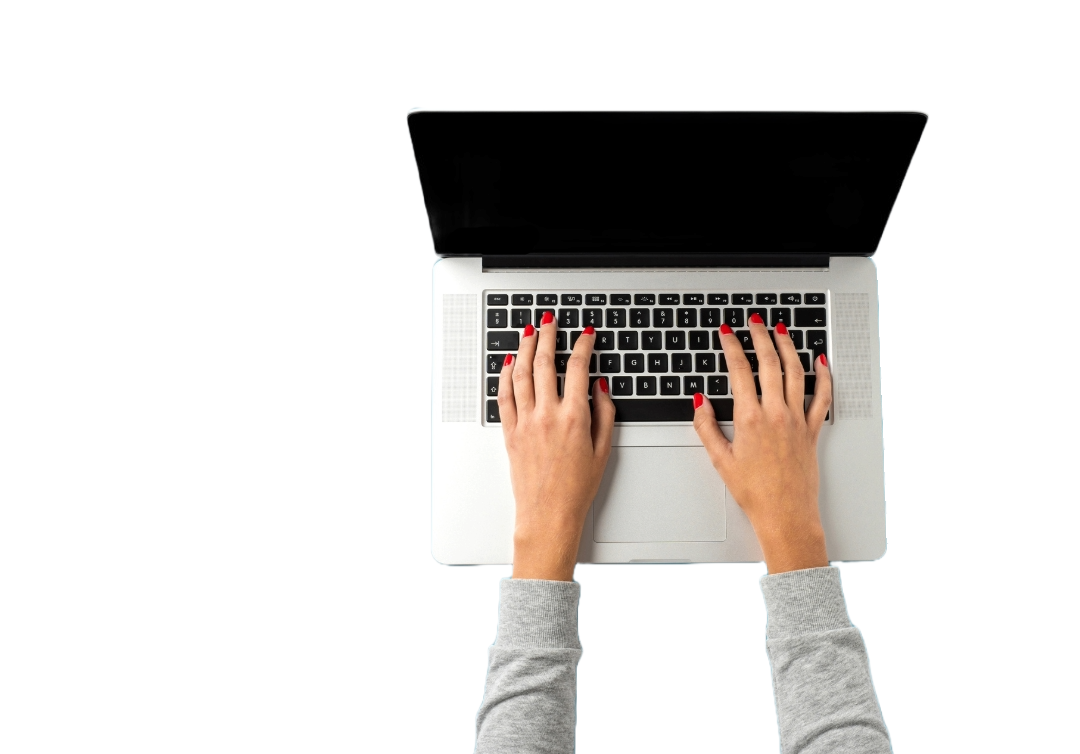
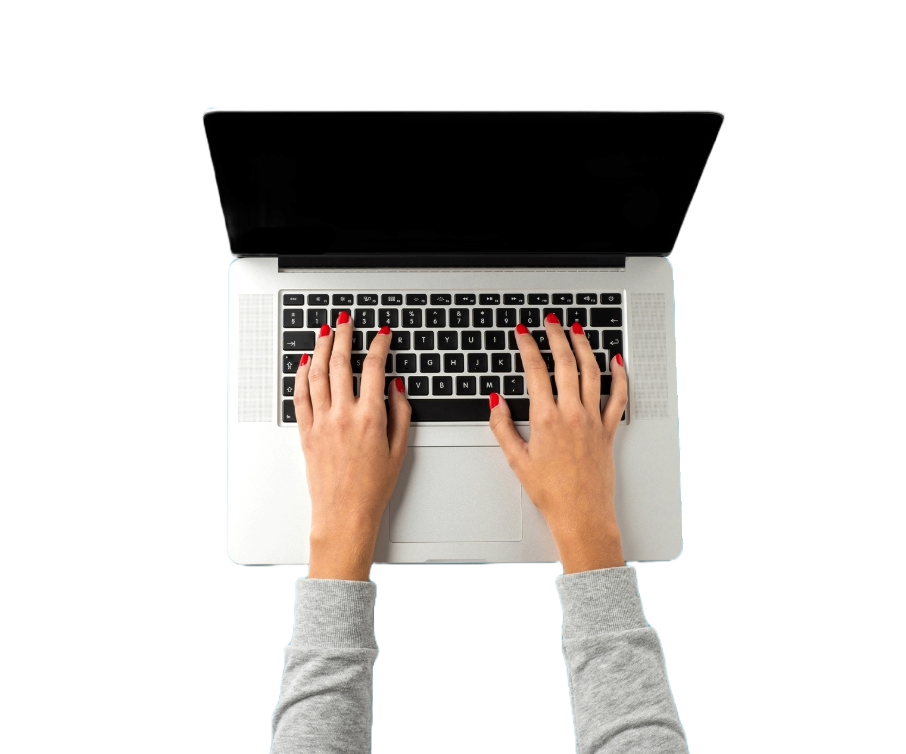
トップページサーチフォーム

diff --git a/client/app/components/search/KeywordSearch.tsx b/client/app/components/search/KeywordSearch.tsx
@@ -1,0 +1,74 @@
+const KeywordSearch = () => {
+  return (
+    <section className="px-8 pb-10">
+      <form className="flex items-center gap-4 h-12">
+        {/* キーワード入力 */}
+        <input
+          type="text"
+          placeholder="スクール名・資格などで検索"
+          className="flex-1 p-3 border border-gray-300 rounded-lg shadow-sm focus:outline-none focus:ring-2 h-full"
+        />
+
+        {/* 都道府県選択 */}
+        <select className="text-gray-500 p-3 border border-gray-300 rounded-lg shadow-sm focus:outline-none focus:ring-2 h-full">
+          <option value="">都道府県を選択</option>
+          <option value="remote">リモート</option>
+          <option value="hokkaido">北海道</option>
+          <option value="aomori">青森県</option>
+          <option value="iwate">岩手県</option>
+          <option value="miyagi">宮城県</option>
+          <option value="akita">秋田県</option>
+          <option value="yamagata">山形県</option>
+          <option value="fukushima">福島県</option>
+          <option value="ibaraki">茨城県</option>
+          <option value="tochigi">栃木県</option>
+          <option value="gunma">群馬県</option>
+          <option value="saitama">埼玉県</option>
+          <option value="chiba">千葉県</option>
+          <option value="tokyo">東京都</option>
+          <option value="kanagawa">神奈川県</option>
+          <option value="niigata">新潟県</option>
+          <option value="toyama">富山県</option>
+          <option value="ishikawa">石川県</option>
+          <option value="fukui">福井県</option>
+          <option value="yamanashi">山梨県</option>
+          <option value="nagano">長野県</option>
+          <option value="gifu">岐阜県</option>
+          <option value="shizuoka">静岡県</option>
+          <option value="aichi">愛知県</option>
+          <option value="mie">三重県</option>
+          <option value="shiga">滋賀県</option>
+          <option value="kyoto">京都府</option>
+          <option value="osaka">大阪府</option>
+          <option value="hyogo">兵庫県</option>
+          <option value="nara">奈良県</option>
+          <option value="wakayama">和歌山県</option>
+          <option value="tottori">鳥取県</option>
+          <option value="shimane">島根県</option>
+          <option value="okayama">岡山県</option>
+          <option value="hiroshima">広島県</option>
+          <option value="yamaguchi">山口県</option>
+          <option value="tokushima">徳島県</option>
+          <option value="kagawa">香川県</option>
+          <option value="ehime">愛媛県</option>
+          <option value="kochi">高知県</option>
+          <option value="fukuoka">福岡県</option>
+          <option value="saga">佐賀県</option>
+          <option value="nagasaki">長崎県</option>
+          <option value="kumamoto">熊本県</option>
+          <option value="oita">大分県</option>
+          <option value="miyazaki">宮崎県</option>
+          <option value="kagoshima">鹿児島県</option>
+          <option value="okinawa">沖縄県</option>
+        </select>
+
+        {/* 検索ボタン */}
+        <button className="p-3 bg-cyan-600/80 text-white rounded-lg shadow-sm hover:bg-cyan-700 transition ">
+          検索
+        </button>
+      </form>
+    </section>
+  );
+};
+
+export default KeywordSearch;

diff --git a/client/app/components/search/DetailSearch.tsx b/client/app/components/search/DetailSearch.tsx
@@ -1,43 +1,43 @@
-import { Briefcase, Code, Video, BarChart } from "lucide-react";
+import { Banknote, UserCog, Laptop, Clock } from "lucide-react";
 
-const CareerSearch = () => {
+const DetailSearch = () => {
   return (
     <section className="w-full max-w-screen-lg mx-auto text-center py-8 px-8">
       <h2 className="text-xl font-semibold text-gray-700 mb-5">
-        「なりたい」から探す
+        「こだわり」から探す
       </h2>
 
       {/* ボタンリスト */}
       <div className="grid grid-cols-2 md:grid-cols-2 gap-4">
-        {/* WEBデザイナー */}
-        <button className="flex flex-col items-center justify-center p-4 bg-white border border-gray-300 rounded-lg shadow-sm hover:bg-gray-100 transition">
-          <Briefcase className="w-7 h-7 text-gray-700" />
+        {/* 給付金対象コースあり */}
+        <button className="flex flex-col items-center justify-center p-4 bg-white border border-gray-300 rounded-lg shadow-sm hover:bg-gray-100 transition ">
+          <Banknote className="w-7 h-7 text-gray-700" />
           <span className="mt-2 text-gray-700 text-sm font-semibold">
-            WEBデザイナー
+            給付金対象あり
           </span>
         </button>
 
-        {/* ソフトウェアエンジニア */}
+        {/* フリーランスを目指せる */}
         <button className="flex flex-col items-center justify-center p-4 bg-white border border-gray-300 rounded-lg shadow-sm hover:bg-gray-100 transition">
-          <Code className="w-7 h-7 text-gray-700" />
+          <UserCog className="w-7 h-7 text-gray-700" />
           <span className="mt-2 text-gray-700 text-sm font-semibold">
-            エンジニア
+            フリーを目指せる
           </span>
         </button>
 
-        {/* 動画クリエイター */}
+        {/* リモート受講可能 */}
         <button className="flex flex-col items-center justify-center p-4 bg-white border border-gray-300 rounded-lg shadow-sm hover:bg-gray-100 transition">
-          <Video className="w-7 h-7 text-gray-700" />
+          <Laptop className="w-7 h-7 text-gray-700" />
           <span className="mt-2 text-gray-700 text-sm font-semibold">
-            動画クリエイター
+            リモート受講可能
           </span>
         </button>
 
-        {/* WEBマーケター */}
+        {/* 働きながら学べる */}
         <button className="flex flex-col items-center justify-center p-4 bg-white border border-gray-300 rounded-lg shadow-sm hover:bg-gray-100 transition">
-          <BarChart className="w-7 h-7 text-gray-700" />
+          <Clock className="w-7 h-7 text-gray-700" />
           <span className="mt-2 text-gray-700 text-sm font-semibold">
-            WEBマーケター
+            働きながら学べる
           </span>
         </button>
       </div>
@@ -46,4 +46,4 @@ const CareerSearch = () => {
   );
 };
 
-export default CareerSearch;
+export default DetailSearch;

diff --git a/client/app/components/layout/HeroSection.tsx b/client/app/components/layout/HeroSection.tsx
@@ -4,24 +4,26 @@ const HeroSection = () => {
   return (
     <section className="relative w-full h-[350px] bg-gray-100 flex items-center px-16">
       {/* 背景画像 */}
-      <div
-        className="absolute inset-0 bg-cover bg-center opacity-80"
-        style={{
-          backgroundImage: "url('/pc.png')",
-          backgroundSize: "contain",
-          backgroundRepeat: "no-repeat",
-          backgroundPosition: "70% center",
-        }}
-      ></div>
+      <div className="absolute inset-0 flex justify-end max-w-5xl w-full mx-auto">
+        <div
+          className="w-1/2 bg-cover bg-center opacity-80"
+          style={{
+            backgroundImage: "url('/pc.png')",
+            backgroundSize: "contain",
+            backgroundRepeat: "no-repeat",
+            backgroundPosition: "center center",
+          }}
+        ></div>
+      </div>
 
       {/* キャッチコピー */}
-      <div className="relative max-w-4xl w-full mx-auto text-left">
-        <h1 className="text-4xl font-semibold leading-snug tracking-wide text-gray-800">
+      <div className="relative max-w-4xl w-full mx-auto text-lef pl-3">
+        <h1 className="text-4xl font-semibold leading-snug tracking-wider text-gray-800 ">
           私らしい働き方叶える、
           <br />
           ITスクールのリアルな口コミ
         </h1>
-        <p className="text-sm mt-4 text-gray-500">
+        <p className="text-sm mt-4 text-gray-500 tracking-wide">
           実際の受講生の声をもとに、最適なスクール選びをサポートします。
         </p>
       </div>

diff --git a/client/app/components/search/SearchForm.tsx b/client/app/components/search/SearchForm.tsx
@@ -1,13 +1,14 @@
-import CareerSearch from "@/components/search/CareerSearch";
+import KeywordSearch from "./KeywordSearch";
 
 const SearchForm = ({ children }: { children: React.ReactNode }) => {
   return (
     <section className="w-full max-w-4xl mx-auto text-center py-12">
-      <div className="bg-whites border border-gray-300 rounded-lg shadow-lg backdrop-blur-sm overflow-hidden">
-        <div className="bg-cyan-600/80 text-white py-4 px-6 text-sm font-semibold ">
+      <div className="border border-gray-300 rounded-lg shadow-lg backdrop-blur-sm overflow-hidden">
+        <div className="bg-cyan-600/80 text-white py-4 px-6 text-sm font-semibold tracking-wide">
           あなたに合ったスクールを見つけよう
         </div>
-        {children}
+        <div className="flex">{children}</div>
+        <KeywordSearch />
       </div>
     </section>
   );

diff --git a/client/app/components/layout/Header.tsx b/client/app/components/layout/Header.tsx
@@ -12,18 +12,18 @@ const Header = () => {
             <Image
               src="/headerlogo.png"
               alt="スクチャIT"
-              width={110}
+              width={115}
               height={40}
               priority
             />
           </Link>
-          <div className="text-gray-400 text-xs">
+          <div className="text-gray-500 text-xs">
             IT系スクールの口コミを探すなら
           </div>
         </div>
 
         {/* メニュー */}
-        <nav className="flex space-x-6 text-sm">
+        <nav className="flex space-x-6 text-sm font-semibold tracking-wide">
           <Link href="/sign-up" className="text-gray-500 hover:text-gray-700">
             ユーザー登録
           </Link>

diff --git a/client/app/page.tsx b/client/app/page.tsx
@@ -1,6 +1,7 @@
 import HeroSection from "./components/layout/HeroSection";
 import CareerSearch from "./components/search/CareerSearch";
 import SearchForm from "./components/search/SearchForm";
+import DetailSearch from "@/components/search/DetailSearch";
 
 export default function Home() {
   return (
@@ -9,6 +10,7 @@ export default function Home() {
       <div className="-mt-20 relative z-10">
         <SearchForm>
           <CareerSearch />
+          <DetailSearch />
         </SearchForm>
       </div>
     </main>
